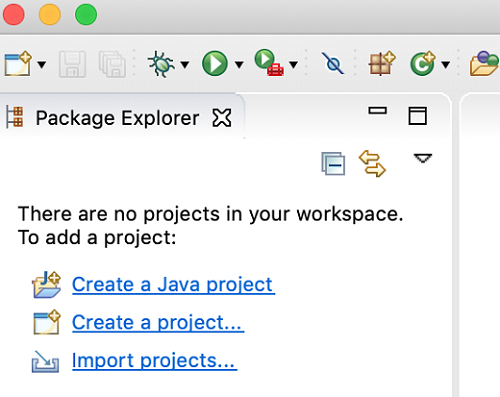
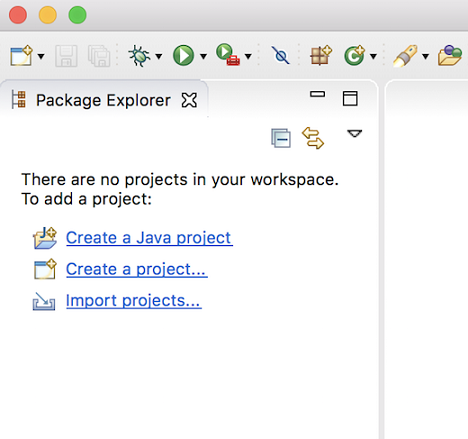
Update N&N entry image size

diff --git a/4.11/platform.html b/4.11/platform.html
@@ -99,7 +99,7 @@ ul {padding-left: 13px;}
         <li>Import projects wizard</li>
        </ul>
        <p>
-         <img src="images/ProjectExplorer.png" alt="" width="600"/>
+         <img src="images/ProjectExplorer.png" alt=""/>
        </p>
      </td>
    </tr>  
